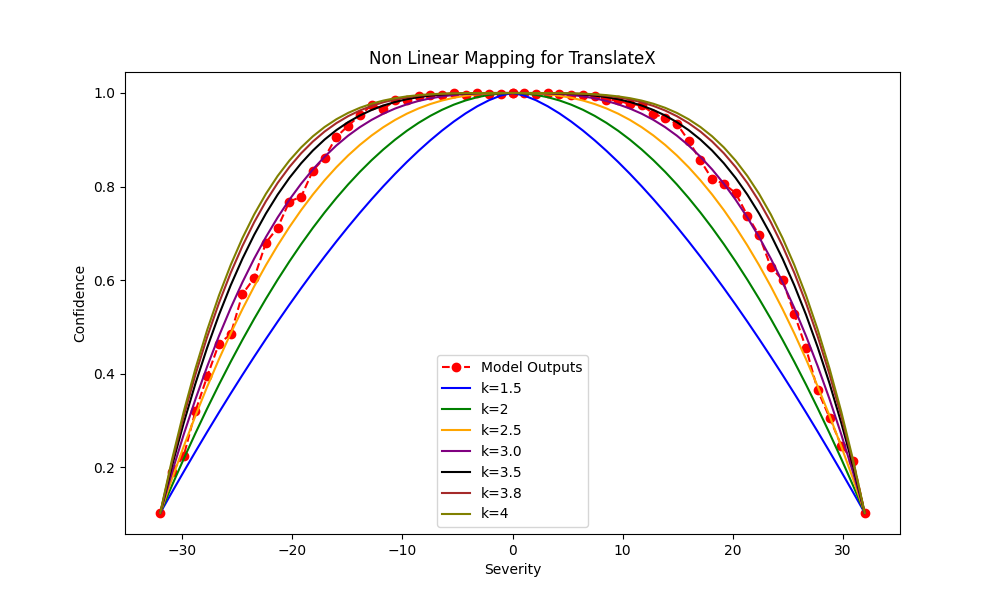
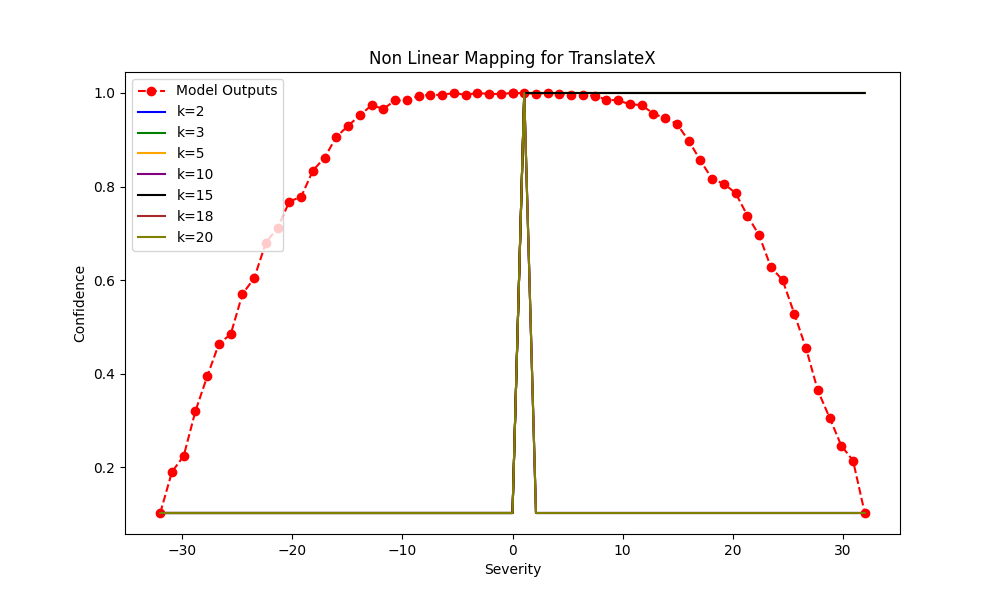
conf>=0.5

Changed region(s): [[0.124, 0.12, 0.868, 0.87], [0.496, 0.51, 0.527, 0.54], [0.496, 0.45, 0.527, 0.48]]

diff --git a/non_linear_mapping_data/curve_fitting.py b/non_linear_mapping_data/curve_fitting.py
@@ -119,13 +119,13 @@ def model_accuracy_mapping(
 
 def get_nl_curve(visibility_values: list, k: int = 2, chance: float = 0.1):
     confidence_rc_values = []
-    for i in range(len(visibility_values)):
-        visibility = visibility_values[i]
-        confidence_rc = 1 - (1 - chance) * (1 - visibility) ** k
-        confidence_rc_values.append(confidence_rc)
-        print(f"Visibility: {visibility}, Confidence: {confidence_rc}")
+    # for i in range(len(visibility_values)):
+    #     visibility = visibility_values[i]
+    #     confidence_rc = 1 - (1 - chance) * (1 - visibility) ** k
+    #     confidence_rc_values.append(confidence_rc)
+    #     print(f"Visibility: {visibility}, Confidence: {confidence_rc}")
 
-    # confidence_rc_values = 1 - (1 - chance) * (1 - np.array(visibility_values)) ** k
+    confidence_rc_values = 1 - (1 - chance) * (1 - np.array(visibility_values)) ** k
     confidence_rc_values = np.array(confidence_rc_values)
     confidence_rc_values = np.where(confidence_rc_values < chance, chance, confidence_rc_values)
     confidence_rc_values = np.where(confidence_rc_values > 1.0, 1.0, confidence_rc_values)
@@ -146,7 +146,7 @@ def compute_visibility(dim1: int, dim2: int, tx: float, ty: float) -> float:
     return (dim1 - abs(tx)) * (dim2 - abs(ty)) / (dim1 * dim2)
 
 if __name__ == "__main__":
-    augmentation_type = "Sharpness"
+    augmentation_type = "TranslateX"
     data = pd.read_csv(
         f"non_linear_mapping_data/{augmentation_type}/{augmentation_type}_MAPPING_results.csv"
     )

diff --git a/augmentations/trivial_augment.py b/augmentations/trivial_augment.py
@@ -363,8 +363,8 @@ class CustomTrivialAugmentWide(torch.nn.Module):
         )
 
         # Update self.chance
-        # self.chance = 0.5
-        
+        self.chance = 0.5
+
         confidence_aa = (
             1 - (1 - self.chance) * (1 - visibility) ** self.k
         )  # The non-linear function
